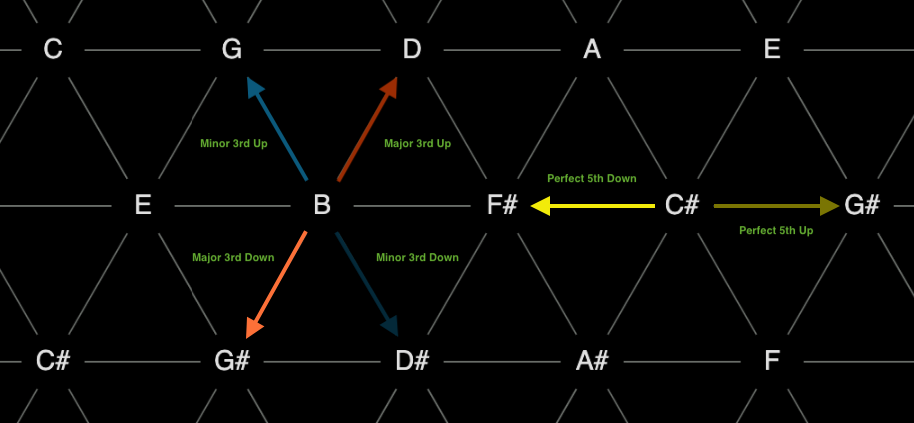
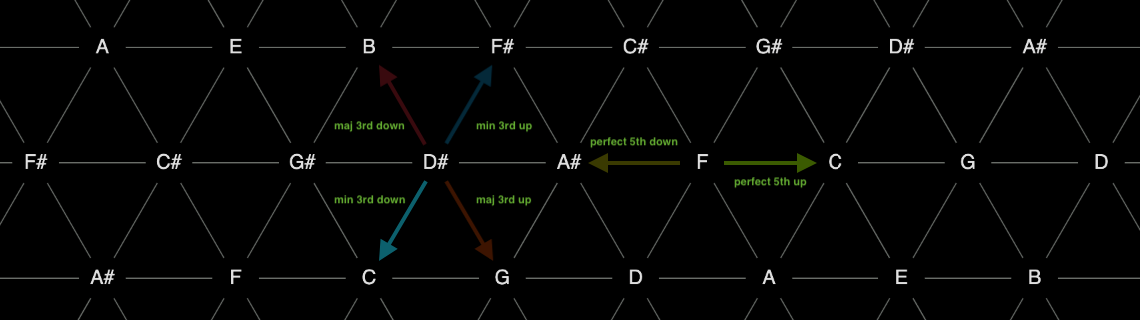
Update README.md

diff --git a/README.md b/README.md
@@ -3,8 +3,8 @@
 **toneZ** is a tonnetz diagram viewer built for browser in html5+css3+javascript using [p5.js](https://p5js.org/) for graphics and the [Tone.js](https://tonejs.github.io/) for sound.
 
 The tonnetz is a lattice diagram representing tonal space. It can be used to visualize harmonic relationships in music. Each node in the diagram corresponds to one of the 12 tones and is connected to 6 adjacent nodes. The 'neighbours' of each tone are related to it either by a third (major or minor) or by a perfect fifth, depending on their relative position in the diagram.
-![screenshot](images/grid_screenshot_0.png)
-![screenshot](images/grid_screenshot_0.png) //INTERVALS ???
+![screenshot](images/grid_interval_examples.png)
+![Alt Text](images/chord.gif) 
 
 See [Tonnetz][1], [Isochord][2] and [Neo-Remannian Theory][3] for more info.
 
@@ -20,10 +20,12 @@ Here the built-in keyboard mapping.
 
 ## Standard Mode
 In this mode you can find the standard tonnetz grid enhanced with the possibility of showing all the different diatonic scales in all keys and modes.
+![Alt Text](images/scale.gif)
+![Alt Text](images/mode.gif)
 You can also enable the "show voicings" options in order to visualize for each note its 3rd and 7th grade according to the current key and mode.
-Furthermore you can also find a synthesizer composed by a selectable oscillator and a built-in and customizable ADSR envelope. 
-![screenshot](images/????????.png) ///GIF chord &  ON/OFF scale change & voicing feature MULTIPLE 
-
+![Alt Text](images/voicing.gif)
+Furthermore you can also find a synthesizer composed by a selectable oscillator and a built-in and customizable ADSR envelope.
+![Alt Text](images/synth.gif)  
 ## Game Mode
 Here you can have fun learning the tonnetz system on your MIDI keyboard. The program shows some triads on the grid and you will have to find and play the right chords on the keyboard. Beware! Every wrong note makes you lose a life!!
 
